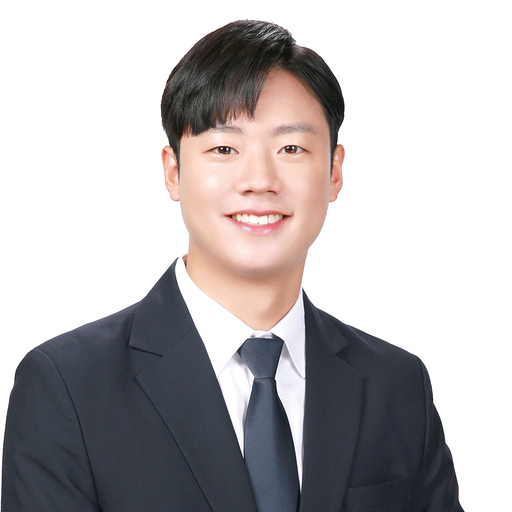
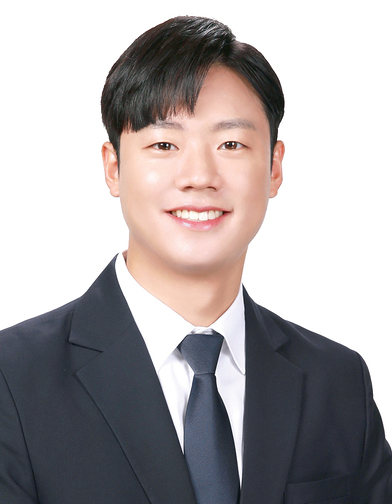
Members update

diff --git a/_site/members/index.html b/_site/members/index.html
@@ -246,8 +246,8 @@
   <div class="col-md-3 clearfix">
     <p><img src="http://localhost:4000/images/teampic/seungyoon.jpg" class="img-responsive" width="80%" style="float: left" /></p>
     <h4 style="">Seungyoon Choi</h4>
-    <p><i>Ph.D. student<br />csyoon08 (at) kaist.ac.kr</i></p>
-
+    <p><i>Ph.D. student<br />csyoon08 (at) kaist.ac.kr</i>
+  <a href="https://seungyoon-choi.github.io/" target="_blank">[Homepage]</a></p>
     <ul style="overflow: hidden">
 
   
